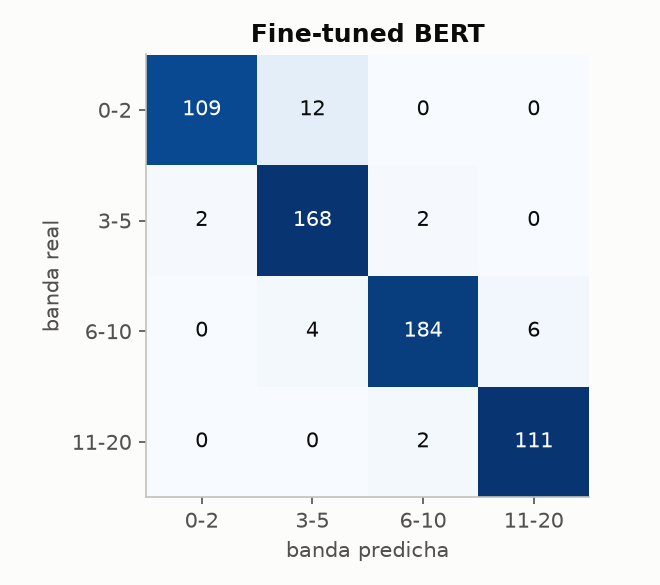
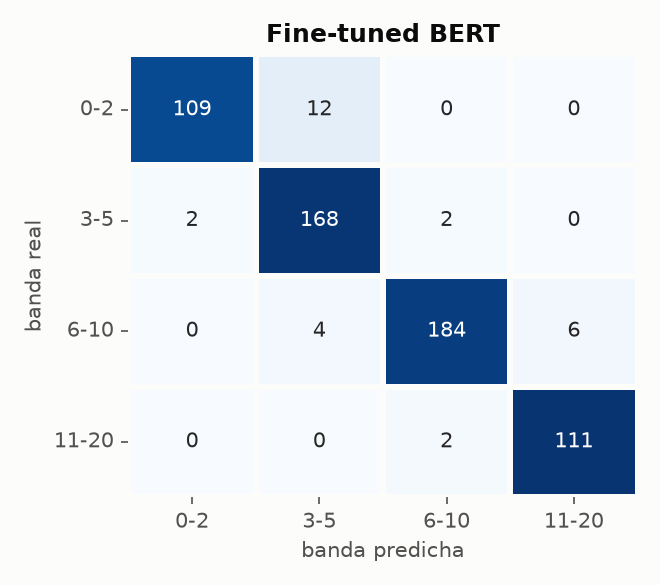
Matrices de confusion con seaborn

diff --git a/src/visualization.py b/src/visualization.py
@@ -14,6 +14,7 @@ matplotlib.use("Agg")
 import matplotlib.pyplot as plt
 import numpy as np
 import pandas as pd
+import seaborn as sns
 
 from src.evaluation import BAND_ORDER, MAIN_MODELS, load_test
 from src.utils import EXP_CAP, FIG_DIR, PROCESSED_CSV, TABLE_DIR
@@ -129,17 +130,12 @@ def grouped_bars(table: str, col: str, value: str, name: str, title: str, ylabel
 def confusions() -> None:
     for name, label in MAIN_MODELS.items():
         cm = pd.read_csv(TABLE_DIR / f"band_confusion_{name}.csv", index_col=0)
-        share = cm.div(cm.sum(axis=1), axis=0)
+        share = cm.div(cm.sum(axis=1), axis=0)  # color = % de cada banda real
         fig, ax = plt.subplots(figsize=(4.4, 3.9))
-        ax.imshow(share, cmap="Blues", vmin=0, vmax=1)
-        for i in range(len(cm)):
-            for j in range(len(cm)):
-                ax.text(j, i, cm.iat[i, j], ha="center", va="center", fontsize=10,
-                        color="white" if share.iat[i, j] > 0.55 else INK)
-        ax.set_xticks(range(4), BAND_ORDER)
-        ax.set_yticks(range(4), BAND_ORDER)
+        sns.heatmap(share, annot=cm, fmt="d", cmap="Blues", vmin=0, vmax=1, cbar=False,
+                    linewidths=2, linecolor=SURFACE, annot_kws={"fontsize": 10}, ax=ax)
         ax.set(title=label, xlabel="banda predicha", ylabel="banda real")
-        ax.grid(False)
+        ax.tick_params(axis="y", rotation=0)
         save(fig, f"confusion_{name}")
 
 
